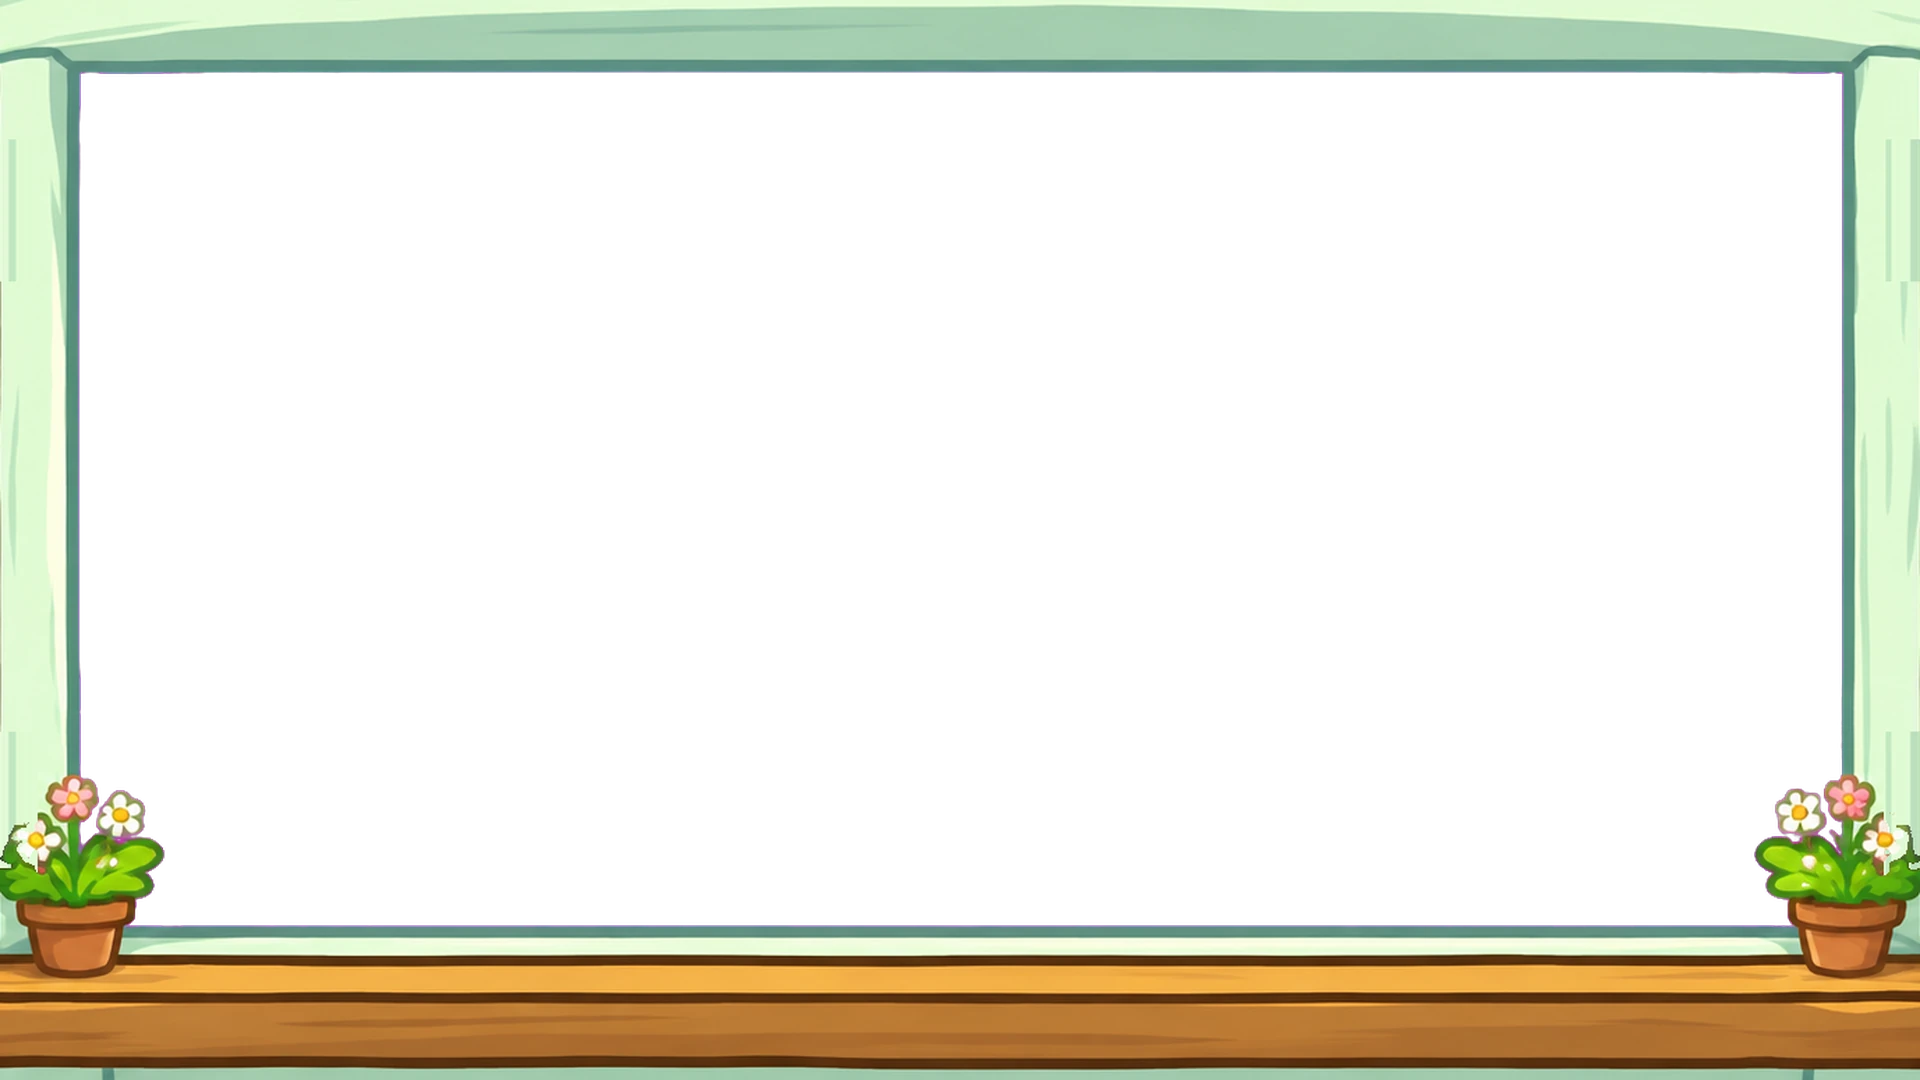
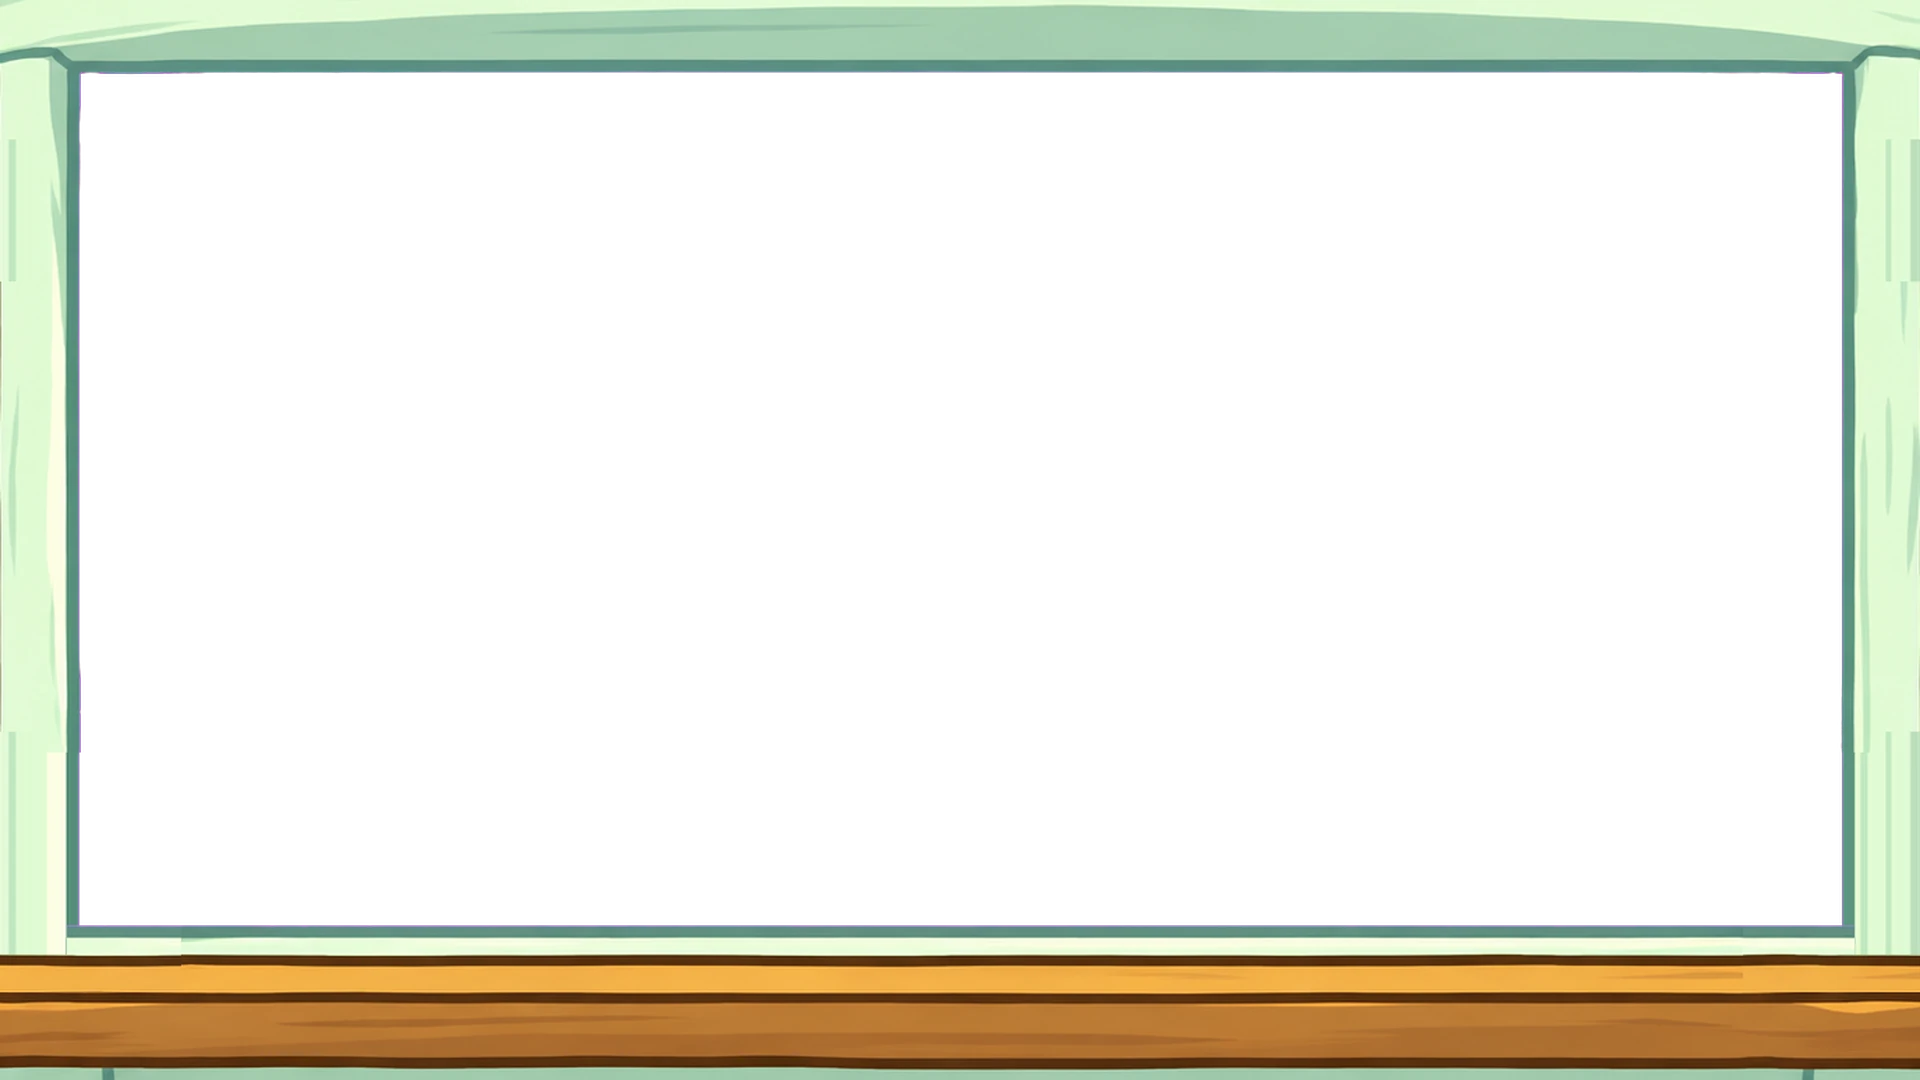
menu: finestra v2 senza vasi di fiori

Changed region(s): [[0.0, 0.7028, 0.0938, 0.9167], [0.9062, 0.7028, 1.0, 0.9167]]

diff --git a/tools/build_finestra_v2.py b/tools/build_finestra_v2.py
@@ -1,4 +1,5 @@
-"""Cornice-finestra del menu, v2 (persiane di legno aperte, davanzale coi vasi):
+"""Cornice-finestra del menu, v2 (dall'arte con persiane aperte e vasi, che
+qui vengono tolti: resta architrave, stipiti, davanzale):
 tools/art/finestra_menu_v2.png (Scenario, 1672x941 RGB, apertura magenta
 piena) -> kiosk/tenants/default/assets/window-v2.webp (1920x1080).
 
@@ -7,8 +8,9 @@ piena) -> kiosk/tenants/default/assets/window-v2.webp (1920x1080).
 3. la banda centrale del telaio (solo assi lisce: architrave e davanzale,
    lontano dai vasi) viene allargata quanto serve perche' il bordo schermo
    cada a SIDE_L/SIDE_R, subito dentro le persiane (fuori del tutto);
-4. ritaglio 16:9 da CROP_TOP a CROP_BOTTOM: cornice = architrave, stipiti,
-   davanzale coi vasi.
+4. via i vasi coi fiori (zona ricostruita da stipite e fasce orizzontali);
+5. ritaglio 16:9 da CROP_TOP a CROP_BOTTOM: cornice = architrave, stipiti,
+   davanzale.
 Stampa l'apertura misurata (contentBox in %) da mettere nel config.
 """
 from PIL import Image, ImageFilter
@@ -49,6 +51,30 @@ for x0, x1, y0, y1, ypot in HINGES:
     iron = (np.array(hm) > 0) & ~green
     repl = (ys < ypot) | iron
     blk[repl] = jamb[repl]
+# via i vasi coi fiori: la zona si ricostruisce con cio' che c'e' dietro.
+# Stipite (e suo profilo teal) = riga JAMB_Y della stessa colonna; apertura,
+# profilo inferiore, battuta e davanzale = stessa riga, 150 px verso il
+# centro (sono fasce orizzontali uniformi). Misure sull'originale.
+POT_Y0, RAIL_Y, SILL_Y, POT_Y1 = 640, 764, 785, 812
+def fill_jamb(xa, xb, ya, yb):
+    rgb[ya:yb, xa:xb] = rgb[JAMB_Y, xa:xb]
+    alpha[ya:yb, xa:xb] = alpha[JAMB_Y, xa:xb]
+def fill_shift(xa, xb, ya, yb, dx):
+    rgb[ya:yb, xa:xb] = rgb[ya:yb, xa + dx:xb + dx]
+    alpha[ya:yb, xa:xb] = alpha[ya:yb, xa + dx:xb + dx]
+# sinistra: stipite 309-358, profilo 358-367, apertura da 367
+fill_jamb(309, 358, POT_Y0, SILL_Y)
+fill_jamb(358, 367, POT_Y0, RAIL_Y)
+fill_shift(358, 367, RAIL_Y, SILL_Y, 150)
+fill_shift(367, 440, POT_Y0, POT_Y1, 150)
+fill_shift(309, 367, SILL_Y, POT_Y1, 150)
+# destra: apertura fino a 1302, profilo 1303-1312, stipite 1312-1363
+fill_jamb(1312, 1363, POT_Y0, SILL_Y)
+fill_jamb(1303, 1312, POT_Y0, RAIL_Y)
+fill_shift(1303, 1312, RAIL_Y, SILL_Y, -150)
+fill_shift(1232, 1303, POT_Y0, POT_Y1, -150)
+fill_shift(1303, 1363, SILL_Y, POT_Y1, -150)
+
 img = Image.fromarray(np.dstack([rgb, alpha * 255]).astype("uint8"))
 
 sw, sh = img.size

diff --git a/CLAUDE.md b/CLAUDE.md
@@ -240,12 +240,12 @@ forme, puzzle, tris, hanoi.
   architrave menta, davanzale coi vasi (`window-v2.webp`, da
   `tools/build_finestra_v2.py`: scontorno magenta, banda centrale allargata,
   taglio 16:9 con persiane/davanzale che escono dallo schermo). Apertura
-  1763x853 px (persiane e cerniere tolte: cornice = architrave, stipiti,
-  davanzale coi vasi). La v1 resta come asset (`window.webp`, valori in `_previous`).
+  1763x853 px (persiane, cerniere e vasi tolti: cornice = architrave, stipiti,
+  davanzale). La v1 resta come asset (`window.webp`, valori in `_previous`).
 
 ## Stato attuale
 - **Shell/menu:** tile nude (icona animata + titolo maiuscolo), sfondo nuovo a norma,
-  cornice a finestra v2 (persiane) su default, icone in rilievo, font + colori titoli. Pulsante legno = token opzionale.
+  cornice a finestra v2 (architrave, stipiti, davanzale) su default, icone in rilievo, font + colori titoli. Pulsante legno = token opzionale.
 - **Icone:** tutte e 12 animate (`tools/build_<gioco>.py`).
 - **Giochi:** re-skin **completo su tutti e 12**. Il Rompicapo usa come
   immagini da ricomporre le scene della famiglia di animali.
